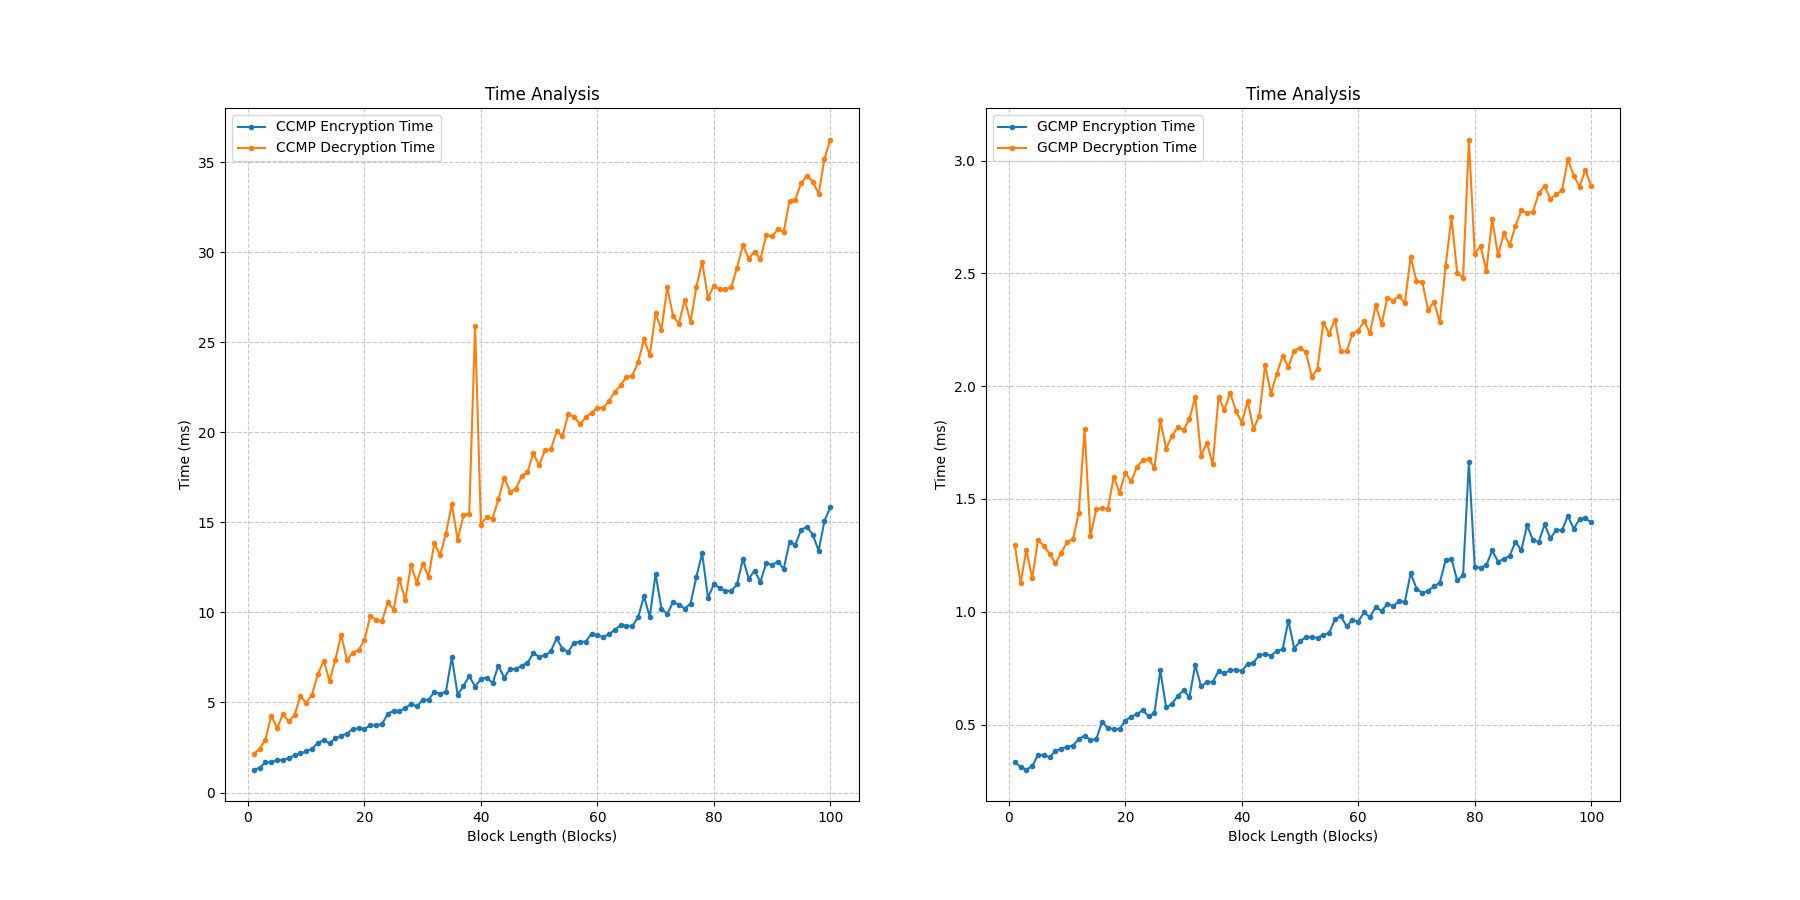
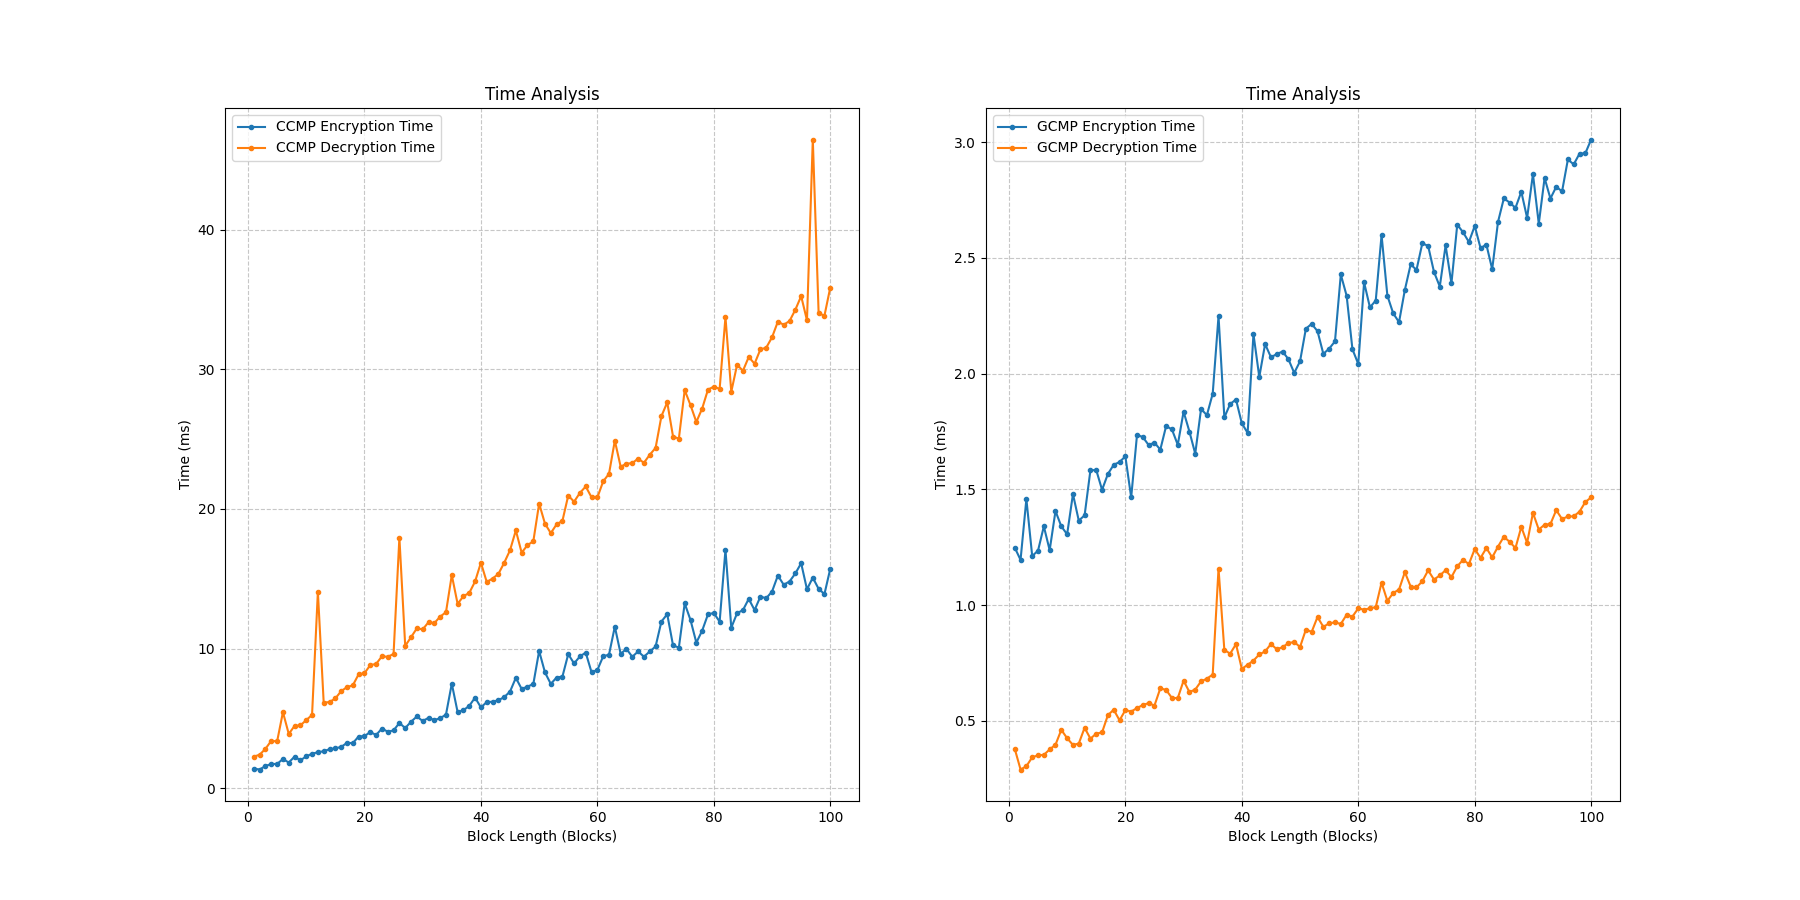
done

diff --git a/main.py b/main.py
@@ -139,7 +139,7 @@ def main():
             gcmp = LinkMode(protocol, i+1)
             gcmp.encrypt()
             gcmp.decrypt()
-            f1.write(f"{gcmp.entropy_mic},{gcmp.encryption_time},{gcmp.ramE},{gcmp.cpuE},{gcmp.decryption_time},{gcmp.ramD},{gcmp.cpuD}\n")
+            f1.write(f"{gcmp.entropy_mic},{gcmp.decryption_time},{gcmp.ramE},{gcmp.cpuE},{gcmp.encryption_time},{gcmp.ramD},{gcmp.cpuD}\n")
             del gcmp
         print("")
         print("[#] COMPILATION SUCCESSFUL: Check Results.csv and Results.log files for the output.")
